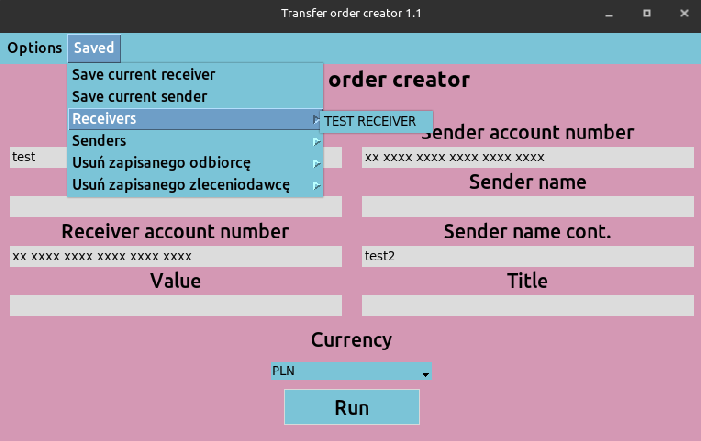
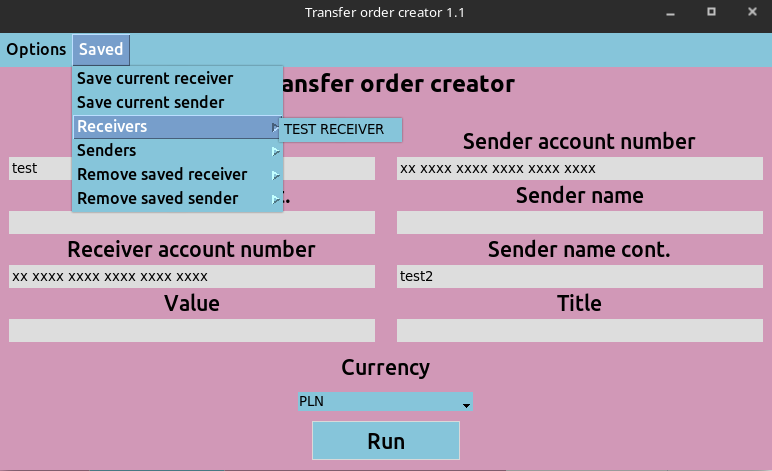
fixing minor bugs and updating readme

diff --git a/transfers.py b/transfers.py
@@ -300,7 +300,7 @@ class App:
             
             save_names = ["Save current receiver", "Save current sender", "Receivers", "Senders", "Remove saved receiver", "Remove saved sender"]
 
-            for i in range(4):
+            for i in range(6):
                 self.saved.entryconfig(i, label = save_names[i])
 
             self.temp_lang = 0
@@ -374,10 +374,10 @@ class App:
 
         if self.language_tracker:
             top.title('Saving')
-            temp_label = tk.Label(top, text = f"Enter {name}'s identification code\n This code will allow you to distinguish saved positions in the menu \n Restart the program in order to view changes", pady = 5)
+            temp_label = tk.Label(top, text = f"Enter {name}'s identification code.\n This code will allow you to distinguish saved positions in the menu. \n Restart the program in order to view changes.", pady = 5)
         else:
             top.title('Zapisywanie') 
-            temp_label = tk.Label(top, text = f"Wpisz kod identyfikacyjny {name}\n Ten kod pozwoli ci rozróżnić zapisane pozycje w menu \n Zrestartuj program, aby zobaczyć zmiany", pady = 5)
+            temp_label = tk.Label(top, text = f"Wpisz kod identyfikacyjny {name}.\n Ten kod pozwoli ci rozróżnić zapisane pozycje w menu. \n Zrestartuj program, aby zobaczyć zmiany.", pady = 5)
         
         e = tk.Entry(top)
 
@@ -420,9 +420,9 @@ class App:
             # error pop-up
 
             if self.language_tracker:
-                self.error(f"Enter {name}'s identification code")
+                self.error(f"Enter {name}'s identification code.")
             else:
-                self.error(f"Wpisz kod identyfikacyjny {name}")
+                self.error(f"Wpisz kod identyfikacyjny {name}.")
 
             return 1
 
@@ -457,18 +457,50 @@ class App:
 
         if test:
             filename = 'receivers.csv'
+            
         else:
             filename = 'senders.csv'
 
         with open(filename, 'r') as f:
             lines = list(reader(f))
 
-
         with open(filename, 'w') as f:
             for i in lines:
-                print(i)
                 if i != line:
                     f.write(i)
+
+        # pop-up window
+
+        top = tk.Toplevel(self.root) # top 
+ 
+        # instructing the user that the changes will be visible after a restart
+
+        if self.language_tracker:
+            if test:
+                name = "receiver"
+            else:
+                name = "sender"
+            top.title('Deleting')
+            temp_label = tk.Label(top, text = f"The {name} has been removed. \n Restart the program in order to view changes.", pady = 5)
+        else:
+            if test:
+                name = "Odbiorca"
+            else:
+                name = "Zleceniodawca"
+            top.title('Usuwanie') 
+            temp_label = tk.Label(top, text = f"{name} został usunięty. \n Zrestartuj program aby zobaczyć zmiany.", pady = 5)
+
+        temp_label.pack()
+
+        # dark mode provision
+
+        if self.dark_mode_flag:
+            top.configure(bg='#d198b7')
+            temp_label.config(bg = '#d198b7', fg='#000000')
+        else:
+            top.configure(bg = '#212121')
+            temp_label.config(bg = '#212121', fg='#dddddd')
+            
 
 
     # pop-up error method

diff --git a/README.md b/README.md
@@ -12,4 +12,14 @@ It supports dark mode and saving receivers/senders data on your drive (in csv fo
 
 ![Second picture](/readme-assets/thir-pic.png?raw=true "Third picture")
 
-Please note that the transfer.tex file has to be in the same directory for the program to work correctly.
+Please note that the transfer.tex file has to be in the same directory as trasfers.py for the program to work correctly.
+
+To run the program clone the repository, move into the repository, and run the python script.
+
+```shell
+git clone https://github.com/marcsikor/transfer-producer
+cd transfer-producer
+python3 transfers.py
+```
+
+If any trouble with pdflatex occurs on your local machine, you can still use the generated newtransfer.tex file - for example with [Overleaf](https://www.overleaf.com)
